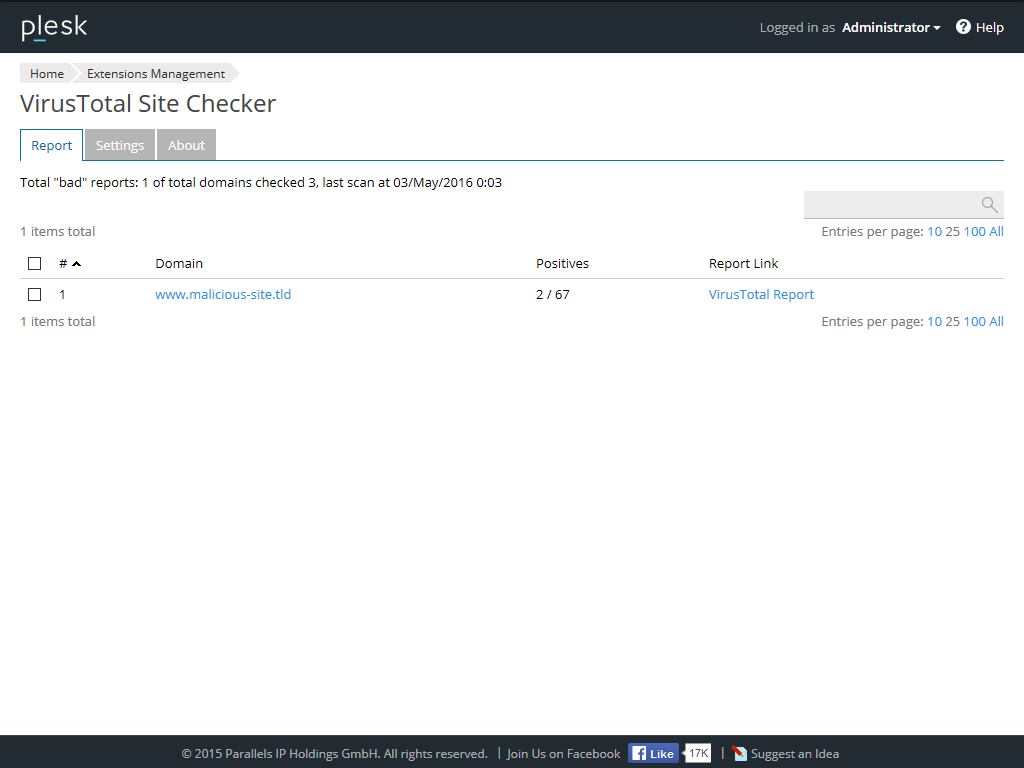
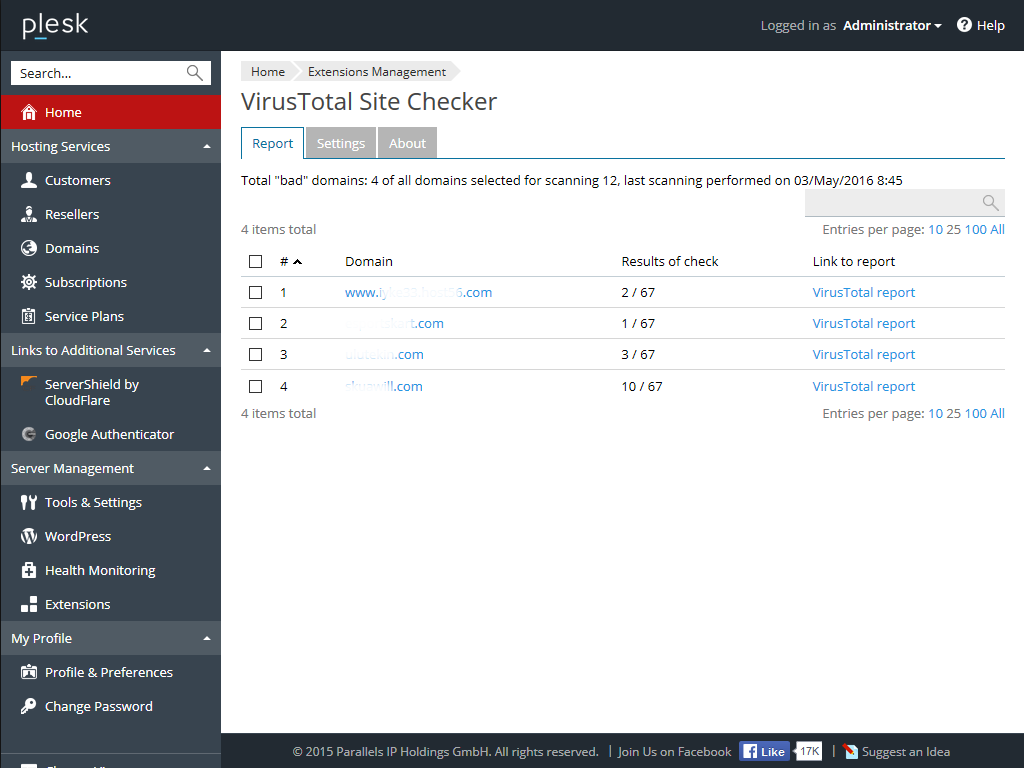
Bugfixes

diff --git a/plib/library/Helper.php b/plib/library/Helper.php
@@ -6,44 +6,50 @@ class Modules_VirustotalSiteChecker_Helper
     const virustotal_report_url = 'https://www.virustotal.com/vtapi/v2/url/report';
     const virustotal_domain_info_url = 'https://www.virustotal.com/domain/%s/information/';
     const virustotal_api_timeout = 20;
-    const virustotal_api_day_limit = 4300;
+    const virustotal_api_day_limit = 5;
 
     public static  function check()
     {
-        pm_Settings::set('total_domains_checked', 0);
+        
         
         if (!pm_Settings::get('virustotal_enabled') || !pm_Settings::get('virustotal_api_key')) {
             return;
         }
 
-        self::cleanup_admin_report();
         self::report();
-
+        
+        pm_Settings::set('total_domains_checked', 0);
         foreach (self::getDomains() as $domain) {
             if (!self::is_last_domain('check', $domain)) {
                 continue;
             }
-            if (self::is_enough()) {
-                exit(0);
-            }
             
-            
-            $request = json_decode(pm_Settings::get('domain_id_' . $domain->id), true);
-            if ($request && !$request['virustotal_request_done']) {
+            $report = json_decode(pm_Settings::get('domain_id_' . $domain->id), true);
+            if ($report && !$report['virustotal_request_done']) {
                 continue;
             }
-            
+            if (!$report) {
+                $report = [];
+            }
+            /*
             if (!$domain->isValid()) {
                 continue;
             }
-            
-            $virustotal_request = array(
-                'domain' => $domain,
-                'virustotal_request_done' => false,
-                'virustotal_request' => self::virustotal_scan_url_request($domain->ascii_name)
+            */
+            if (self::is_enough()) {
+                exit(0);
+            }
+            $report['domain'] = $domain;
+            $report['virustotal_request_done'] = false;
+            $request = self::virustotal_scan_url_request($domain->ascii_name);
+            $report['virustotal_request'] = array(
+                'response_code' => $request['response_code'],
+                'scan_date' => $request['scan_date'],
+                'scan_id' => $request['scan_id'],
             );
 
-            pm_Settings::set('domain_id_' . $domain->id, json_encode($virustotal_request));
+
+            pm_Settings::set('domain_id_' . $domain->id, json_encode($report));
             pm_Settings::set('last_scan', date("d/M/Y G:i"));
             pm_Settings::set('total_domains_checked', pm_Settings::get('total_domains_checked') + 1);
         }
@@ -93,15 +99,13 @@ class Modules_VirustotalSiteChecker_Helper
             if (!self::is_last_domain('report', $domain)) {
                 continue;
             }
-            if (self::is_enough()) {
-                exit(0);
-            }
-
             $request = json_decode(pm_Settings::get('domain_id_' . $domain->id), true);
             if (!$request) {
                 continue;
             }
-
+            if (self::is_enough()) {
+                exit(0);
+            }
             $report = self::virustotal_scan_url_report($domain->ascii_name);
             //error_log(print_r($report, 1));
             if (isset($report['positives'])) {
@@ -116,8 +120,6 @@ class Modules_VirustotalSiteChecker_Helper
                 }
             }
         }
-
-        self::cleanup_last_domains();
     }
 
     public static function cleanup_last_domains()
@@ -128,65 +130,43 @@ class Modules_VirustotalSiteChecker_Helper
         }
     }
 
-    public static function cleanup_admin_report()
-    {
-        $admin_report = json_decode(pm_Settings::get('admin_report'), true);
-        if (!is_array($admin_report)) {
-            return;
-        }
-
-        $to_delete = [];
-        $domains = self::getDomains();
-        foreach ($admin_report['domains'] as $key => $report) {
-            if (!isset($domains[$report['domain']['id']])) {
-                $to_delete[] = $key;
-            }
-        }
-        foreach ($to_delete as $key) {
-            unset($admin_report['domains'][$key]);
-        }
-
-        pm_Settings::set('admin_report', json_encode($admin_report));
-    }
-
     /**
      * @param $domain Modules_VirustotalSiteChecker_PleskDomain
      * @return null
      */
     public static function unreport_domain($domain)
     {
-        $admin_report = json_decode(pm_Settings::get('admin_report'), true);
-        if (!is_array($admin_report)) {
+        $report = json_decode(pm_Settings::get('domain_id_' . $domain->id), true);
+        if (!$report) {
             return;
         }
+        unset($report['virustotal_domain_info_url']);
+        unset($report['virustotal_positives']);
+        unset($report['virustotal_total']);
+        unset($report['virustotal_scan_date']);
 
-        unset($admin_report['domains'][$domain->ascii_name]);
-        pm_Settings::set('admin_report', json_encode($admin_report));
+        pm_Settings::set('domain_id_' . $domain->id, json_encode($report));
     }
 
     /**
      * @param $domain Modules_VirustotalSiteChecker_PleskDomain
-     * @param $report array
+     * @param $new_report array
      * @return null
      */
-    public static function report_domain($domain, $report)
+    public static function report_domain($domain, $new_report)
     {
-        $admin_report = json_decode(pm_Settings::get('admin_report'), true);
-        if (!is_array($admin_report)) {
-            $admin_report = array(
-                'domains' => []
-            );
+        $report = json_decode(pm_Settings::get('domain_id_' . $domain->id), true);
+        if (!$report) {
+            $report = [];
         }
 
-        $admin_report['domains'][$domain->ascii_name] = array(
-            'domain' => $domain,
-            'virustotal_domain_info_url' => sprintf(self::virustotal_domain_info_url, $domain->ascii_name),
-            'virustotal_positives' => $report['positives'],
-            'virustotal_total' => isset($report['total']) ? $report['total'] : '',
-            'virustotal_scan_date' => isset($report['scan_date']) ? $report['total'] : ''
-        );
+        $report['domain'] = $domain;
+        $report['virustotal_domain_info_url'] = sprintf(self::virustotal_domain_info_url, $domain->ascii_name);
+        $report['virustotal_positives'] = $new_report['positives'];
+        $report['virustotal_total'] = isset($new_report['total']) ? $new_report['total'] : '';
+        $report['virustotal_scan_date'] = isset($new_report['scan_date']) ? $new_report['total'] : '';
 
-        pm_Settings::set('admin_report', json_encode($admin_report));
+        pm_Settings::set('domain_id_' . $domain->id, json_encode($report));
     }
 
     /**
@@ -219,6 +199,43 @@ class Modules_VirustotalSiteChecker_Helper
         $response = $client->request(Zend_Http_Client::POST);
 
         return json_decode($response->getBody(), true);
+    }
+
+    /**
+     * @return array[string]
+     *              ['bad']     Modules_VirustotalSiteChecker_PleskDomain[]
+     *              ['total']   int
+     */
+    public static function getDomainsReport()
+    {
+        static $domains = [
+            'bad' => [],
+            'total' => 0,
+        ];
+        if ($domains['total'] > 0) {
+            return $domains;
+        }
+        foreach (self::getDomains() as $domain) {
+            $report = json_decode(pm_Settings::get('domain_id_' . $domain->id), true);
+            if (!$report) {
+                continue;
+            }
+
+            $domains['total']++;
+
+            if (!isset($report['virustotal_positives']) || $report['virustotal_positives'] <= 0) {
+                continue;
+            }
+
+            $domain->virustotal_positives = $report['virustotal_positives'];
+            $domain->virustotal_total = $report['virustotal_total'];
+            $domain->virustotal_domain_info_url = $report['virustotal_domain_info_url'];
+
+            $domains['bad'][$domain->id] = $domain;
+
+        }
+        
+        return $domains;
     }
 
     /**

diff --git a/plib/controllers/IndexController.php b/plib/controllers/IndexController.php
@@ -101,7 +101,9 @@ class IndexController extends pm_Controller_Action
     
     private function _getReportSummary()
     {
-        $total_domains = (int)pm_Settings::get('total_domains_checked');
+        $report = Modules_VirustotalSiteChecker_Helper::getDomainsReport();
+                
+        $total_domains = $report['total'];
         $last_scan = pm_Settings::get('last_scan');
 
         if ($last_scan) {
@@ -109,10 +111,9 @@ class IndexController extends pm_Controller_Action
         } else {
             $text = $this->lmsg('scanningWasNotPerformedYet');
         }
-
-        $admin_report = json_decode(pm_Settings::get('admin_report'), true);
-        if ($admin_report) {
-            $text = $this->lmsg('totalReports') . count($admin_report['domains']) . $this->lmsg('ofTotalDomains') . $total_domains . ', ' . $this->lmsg('lastScan') . $last_scan;
+        
+        if (count($report['bad']) > 0) {
+            $text = $this->lmsg('totalReports') . count($report['bad']) . $this->lmsg('ofTotalDomains') . $total_domains . ', ' . $this->lmsg('lastScan') . $last_scan;
         }
 
         pm_Settings::set('report_summary', $text);
@@ -122,21 +123,22 @@ class IndexController extends pm_Controller_Action
     
     private function _getDomainsReportList() 
     {
-        $admin_report = json_decode(pm_Settings::get('admin_report'), true);
-        if (!$admin_report) {
-            return new pm_View_List_Simple($this->view, $this->_request);
-        }
         $i = 0;
         $data = [];
-        foreach ($admin_report['domains'] as $domain) {
+        $report = Modules_VirustotalSiteChecker_Helper::getDomainsReport();
+        foreach ($report['bad'] as $domain) {
             $i++;
-            
+
             $data[$i] = [
                 'column-1' => $i,
-                'column-2' => '<a target="_blank" href="/admin/subscription/login/id/' . $domain['domain']['webspace_id'] . '?pageUrl=/web/overview/id/d:' . $domain['domain']['id'] . '">' . $domain['domain']['name'] . '</a>',
-                'column-3' => $domain['virustotal_positives'] . ' / ' . $domain['virustotal_total'],
-                'column-4' => '<a rel="noopener noreferrer" target="_blank" href="' . $domain['virustotal_domain_info_url'] . '">' .  $this->lmsg('virustotalReport') . '</a>',
+                'column-2' => '<a target="_blank" href="/admin/subscription/login/id/' . $domain->webspace_id . '?pageUrl=/web/overview/id/d:' . $domain->id . '">' . $domain->name . '</a>',
+                'column-3' => $domain->virustotal_positives . ' / ' . $domain->virustotal_total,
+                'column-4' => '<a rel="noopener noreferrer" target="_blank" href="' . $domain->virustotal_domain_info_url . '">' .  $this->lmsg('virustotalReport') . '</a>',
             ];
+        }
+        
+        if (!count($data) > 0) {
+            return new pm_View_List_Simple($this->view, $this->_request);
         }
         
         $options = [

diff --git a/plib/library/Promo/Home.php b/plib/library/Promo/Home.php
@@ -11,7 +11,9 @@ class Modules_VirustotalSiteChecker_Promo_Home extends pm_Promo_AdminHome
     {
         pm_Context::init('virustotal-site-checker');
 
-        $total_domains = (int)pm_Settings::get('total_domains_checked');
+        $report = Modules_VirustotalSiteChecker_Helper::getDomainsReport();
+
+        $total_domains = $report['total'];
         $last_scan = pm_Settings::get('last_scan');
 
         if ($last_scan) {
@@ -20,11 +22,9 @@ class Modules_VirustotalSiteChecker_Promo_Home extends pm_Promo_AdminHome
             $text = $this->lmsg('scanningWasNotPerformedYet');
         }
 
-        $admin_report = json_decode(pm_Settings::get('admin_report'), true);
-        if ($admin_report) {
-            $text = $this->lmsg('totalReports') . count($admin_report['domains']) . $this->lmsg('ofTotalDomains') . $total_domains . ', ' . $this->lmsg('lastScan') . $last_scan;
+        if (count($report['bad']) > 0) {
+            $text = $this->lmsg('totalReports') . count($report['bad']) . $this->lmsg('ofTotalDomains') . $total_domains . ', ' . $this->lmsg('lastScan') . $last_scan;
         }
-
         pm_Settings::set('report_summary', $text);
 
         return $text;

diff --git a/plib/resources/locales/en-US.php b/plib/resources/locales/en-US.php
@@ -14,9 +14,9 @@ $messages = array(
     'virustotalPromoTitle' => 'VirusTotal Reports',
     'virustotalPromoButtonTitle' => 'More info',
     'scanningWasNotPerformedYet' => 'Scanning was not performed yet.',
-    'totalDomains' => 'Domains have been verified: ',
-    'ofTotalDomains' => ' of all domains selected for verification ',
-    'totalReports' => 'Total "bad" reports: ',
+    'totalDomains' => 'Domains have been scanned: ',
+    'ofTotalDomains' => ' of all domains selected for scanning ',
+    'totalReports' => 'Total "bad" domains: ',
     'lastScan' => 'last scanning performed on ',
     'about' => 'This extension uses the public API  https://virustotal.com to detect malicious scripts on your sites. Queries are executed through daily scheduled tasks at <a href="/admin/scheduler/tasks-list">Scheduled Tasks</a>',
     'feedback' => 'Submit any questions to <a rel="noopener noreferrer" target="_blank" href="http://serverfault.com/questions/ask?tags=plesk+virustotal">serverfault.com</a> using the tags "plesk" and "virustotal"',
